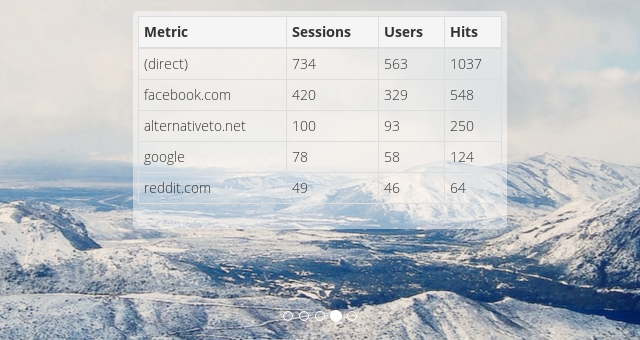
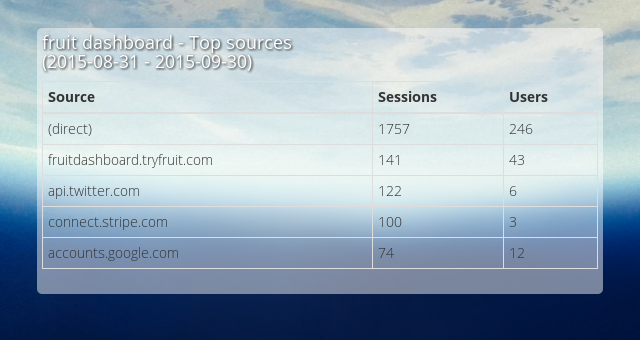
Fixes in top sources

diff --git a/app/models/DataManagers/GoogleDataManagers/Analytics/GoogleAnalyticsTopSourcesDataManager.php b/app/models/DataManagers/GoogleDataManagers/Analytics/GoogleAnalyticsTopSourcesDataManager.php
@@ -11,7 +11,7 @@ class GoogleAnalyticsTopSourcesDataManager extends TableDataManager
     );
     private static $dimensions = 'source';
     private static $sortBy = '-ga:sessions';
-    private static $metrics = array('sessions', 'users', 'hits');
+    private static $metrics = array('sessions', 'users');
 
 
     /**
@@ -52,7 +52,7 @@ class GoogleAnalyticsTopSourcesDataManager extends TableDataManager
 
         /* Inserting rows. */
         foreach ($metricsData as $metric=>$row) {
-            $this->insert(array_merge(array('Metric' => $metric), $row));
+            $this->insert(array_merge(array('Source' => $metric), $row));
         }
     }
 
@@ -69,7 +69,7 @@ class GoogleAnalyticsTopSourcesDataManager extends TableDataManager
         $this->clearTable();
 
         /* Adding cols. */
-        $this->addCol('Metric');
+        $this->addCol('Source');
         foreach (self::$metrics as $metric) {
             $this->addCol(ucwords($metric));
         }

diff --git a/app/models/widgets/TableWidget.php b/app/models/widgets/TableWidget.php
@@ -2,6 +2,27 @@
 
 abstract class TableWidget extends CronWidget
 {
+    /* -- Settings -- */
+    private static $tableSettings = array(
+        'name' => array(
+            'name'       => 'Name',
+            'type'       => 'TEXT',
+            'validation' => 'required',
+            'help_text'  => 'The name of the widget.'
+        ),
+    );
+
+    /**
+     * getSettingsFields
+     * Returns the SettingsFields
+     * --------------------------------------------------
+     * @return array
+     * --------------------------------------------------
+     */
+     public static function getSettingsFields() {
+        return array_merge(parent::getSettingsFields(), self::$tableSettings);
+     }
+
     /**
      * getHeader
      * Returning the table header

diff --git a/app/models/widgets/HistogramWidget.php b/app/models/widgets/HistogramWidget.php
@@ -8,7 +8,7 @@ abstract class HistogramWidget extends CronWidget
     protected static $isHigherGood = TRUE;
 
     /* -- Settings -- */
-    private static $resolutionSettings = array(
+    private static $histogramSettings = array(
         'resolution' => array(
             'name'       => 'Resolution',
             'type'       => 'SCHOICE',
@@ -65,7 +65,7 @@ abstract class HistogramWidget extends CronWidget
      * --------------------------------------------------
      */
      public static function getSettingsFields() {
-        return array_merge(parent::getSettingsFields(), self::$resolutionSettings);
+        return array_merge(parent::getSettingsFields(), self::$histogramSettings);
      }
 
     /**

diff --git a/app/models/widgets/googleWidgets/analytics/GoogleAnalyticsWidgetTrait.php b/app/models/widgets/googleWidgets/analytics/GoogleAnalyticsWidgetTrait.php
@@ -113,8 +113,8 @@ trait GoogleAnalyticsWidgetTrait
       * --------------------------------------------------
      */
      public function save(array $options=array()) {
-         /* Call parent save */
-         parent::save($options);
+        /* Call parent save */
+        parent::save($options);
 
         $collector = new GoogleAnalyticsDataCollector($this->user());
         foreach ($this->user()->googleAnalyticsProperties as $property) {

diff --git a/app/models/widgets/googleWidgets/analytics/GoogleAnalyticsTopSourcesWidget.php b/app/models/widgets/googleWidgets/analytics/GoogleAnalyticsTopSourcesWidget.php
@@ -98,6 +98,9 @@ class GoogleAnalyticsTopSourcesWidget extends TableWidget implements iServiceWid
         if ($oldSettings != $this->getSettings()) {
             $this->updateData();
         }
+        if ($this->getSettings()['name'] == FALSE) {
+            $this->saveSettings(array('name' => $this->getDefaultName()));
+        }
     }
 
 }

diff --git a/app/views/widget/google_analytics/widget-google_analytics_top_sources.blade.php b/app/views/widget/google_analytics/widget-google_analytics_top_sources.blade.php
@@ -1,1 +1,6 @@
- @include('widget.widget-general-table', ['widget' => $widget])
+ @include(
+  'widget.widget-general-table', [
+    'widget' => $widget,
+    'title' => $widget->getSettings()['name'] . '<br>(' . $widget->getSettings()['range_start'] . ' - ' . $widget->getSettings()['range_end'] . ')'
+  ]
+)

diff --git a/app/views/widget/widget-general-table.blade.php b/app/views/widget/widget-general-table.blade.php
@@ -1,4 +1,5 @@
 <div class="widget-inner">
+  <h4 class="drop-shadow text-white no-margin-top">{{ $title }}</h4>
   <table class="table table-condensed table-bordered">
   </table>
 </div> <!-- /.widget-inner -->
